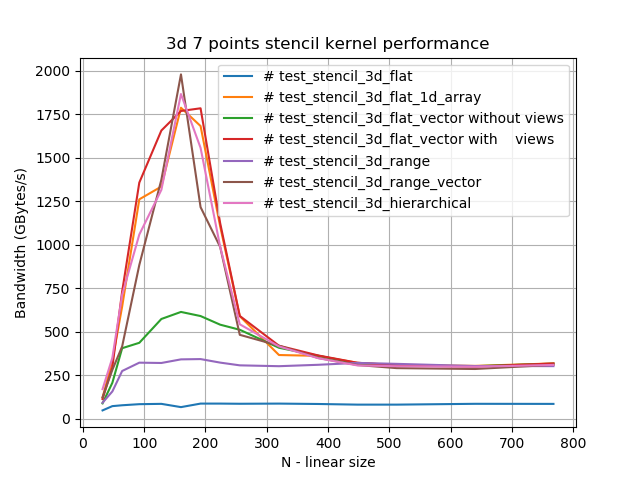
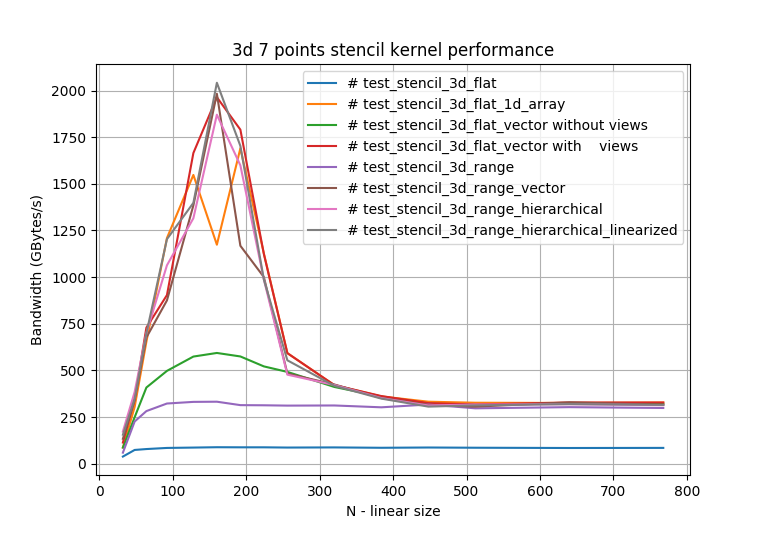
update plot alfven / irene

diff --git a/doc/stencil/plot_stencil_irene_icpc_1socket.py b/doc/stencil/plot_stencil_irene_icpc_1socket.py
@@ -6,28 +6,28 @@ from matplotlib import rc
 size=np.array([32,48,64,92,128,160,192,224,256,320,384,448,512,640,768])
 
 # test_stencil_3d_flat
-v0=np.array([38.4557,73.9336,78.7416,84.718,86.6486,88.5446,88.0435,88.033,86.7633,87.526,85.5697,87.0251,85.8294,84.4155,84.9425])
+v0=np.array([52.2333,58.7392,58.7557,59.5842,58.8131,58.3216,58.9686,58.1892,57.8252,58.1866,57.6563,56.9009,57.3315,57.0107,57.3183])
 
 # test_stencil_3d_flat_1d_array
-v1=np.array([86.6895,304.168,653.985,1209.65,1547.7,1173.86,1690.25,1127.23,592.943,421.34,360.829,332.553,326.96,325.748,328.157])
+v1=np.array([221.843,403.08,681.868,972.447,1121.75,1126.03,686.078,345.504,266.589,239.924,204.088,182.531,172.417,169.897,166.607])
 
 # test_stencil_3d_flat_vector without views
-v2=np.array([86.6326,249.19,408.487,497.684,574.4,593.71,574.989,521.73,492.164,411.498,359.633,322.05,315.404,323.845,320.712])
+v2=np.array([188.152,326.947,365.078,380.846,378.187,392.872,378.372,317.94,263.673,239.55,204.738,182.507,172.439,169.187,167.108])
 
 # test_stencil_3d_flat_vector with    views
-v3=np.array([113.547,346.809,729.462,903.837,1665.2,1964.12,1790.5,1123.92,592.683,421.522,362.668,324.958,317.823,328.213,328.01])
+v3=np.array([171.297,399.822,699.143,826.522,1172.69,1171.87,676.803,347.263,267.003,240.688,204.527,181.873,172.771,169.438,166.851])
 
 # test_stencil_3d_range
-v4=np.array([59.3529,226.386,282.152,322.772,331.511,332.473,314.108,313.294,311.524,312.29,302.43,317.347,297.092,303.334,298.868])
+v4=np.array([135.742,196.862,212.498,221.745,221.151,222.128,217.457,209.212,204.94,205.611,203.355,197.984,197.333,195.121,194.516])
 
 # test_stencil_3d_range_vector
-v5=np.array([133.815,339.407,676.623,875.324,1384.53,1983.01,1168.1,1000.37,483.492,424.788,352.237,314.275,305.922,329.188,315.589])
+v5=np.array([193.321,447.765,551.695,1096.68,996.019,998.467,681.44,342.828,267.283,242.094,204.549,184.232,172.419,169.977,167.072])
 
 # test_stencil_3d_range_hierarchical
-v6=np.array([172.698,384.544,700.884,1063.57,1315.71,1870.55,1599.11,987.452,477.457,421.849,351.897,312.2,317.42,318.79,313.824])
+v6=np.array([242.651,455.319,729.21,877.345,1088.04,1112.92,680.976,341.09,266.6,241.525,204.657,182.471,172.556,169.754,167.089])
 
 # test_stencil_3d_range_hierarchical_linearized
-v7=np.array([155.591,348.164,699.027,1203.61,1398.05,2041.68,1703.39,987.258,554.394,417.759,349.021,306.144,312.927,319.737,315.308])
+v7=np.array([175.396,452.198,709.362,1127.44,1172.69,1189.69,684.891,344.346,258.272,241.405,204.002,181.96,172.564,169.494,166.95])
 
 plt.plot(size,v0, label='# test_stencil_3d_flat')
 plt.plot(size,v1, label='# test_stencil_3d_flat_1d_array')
